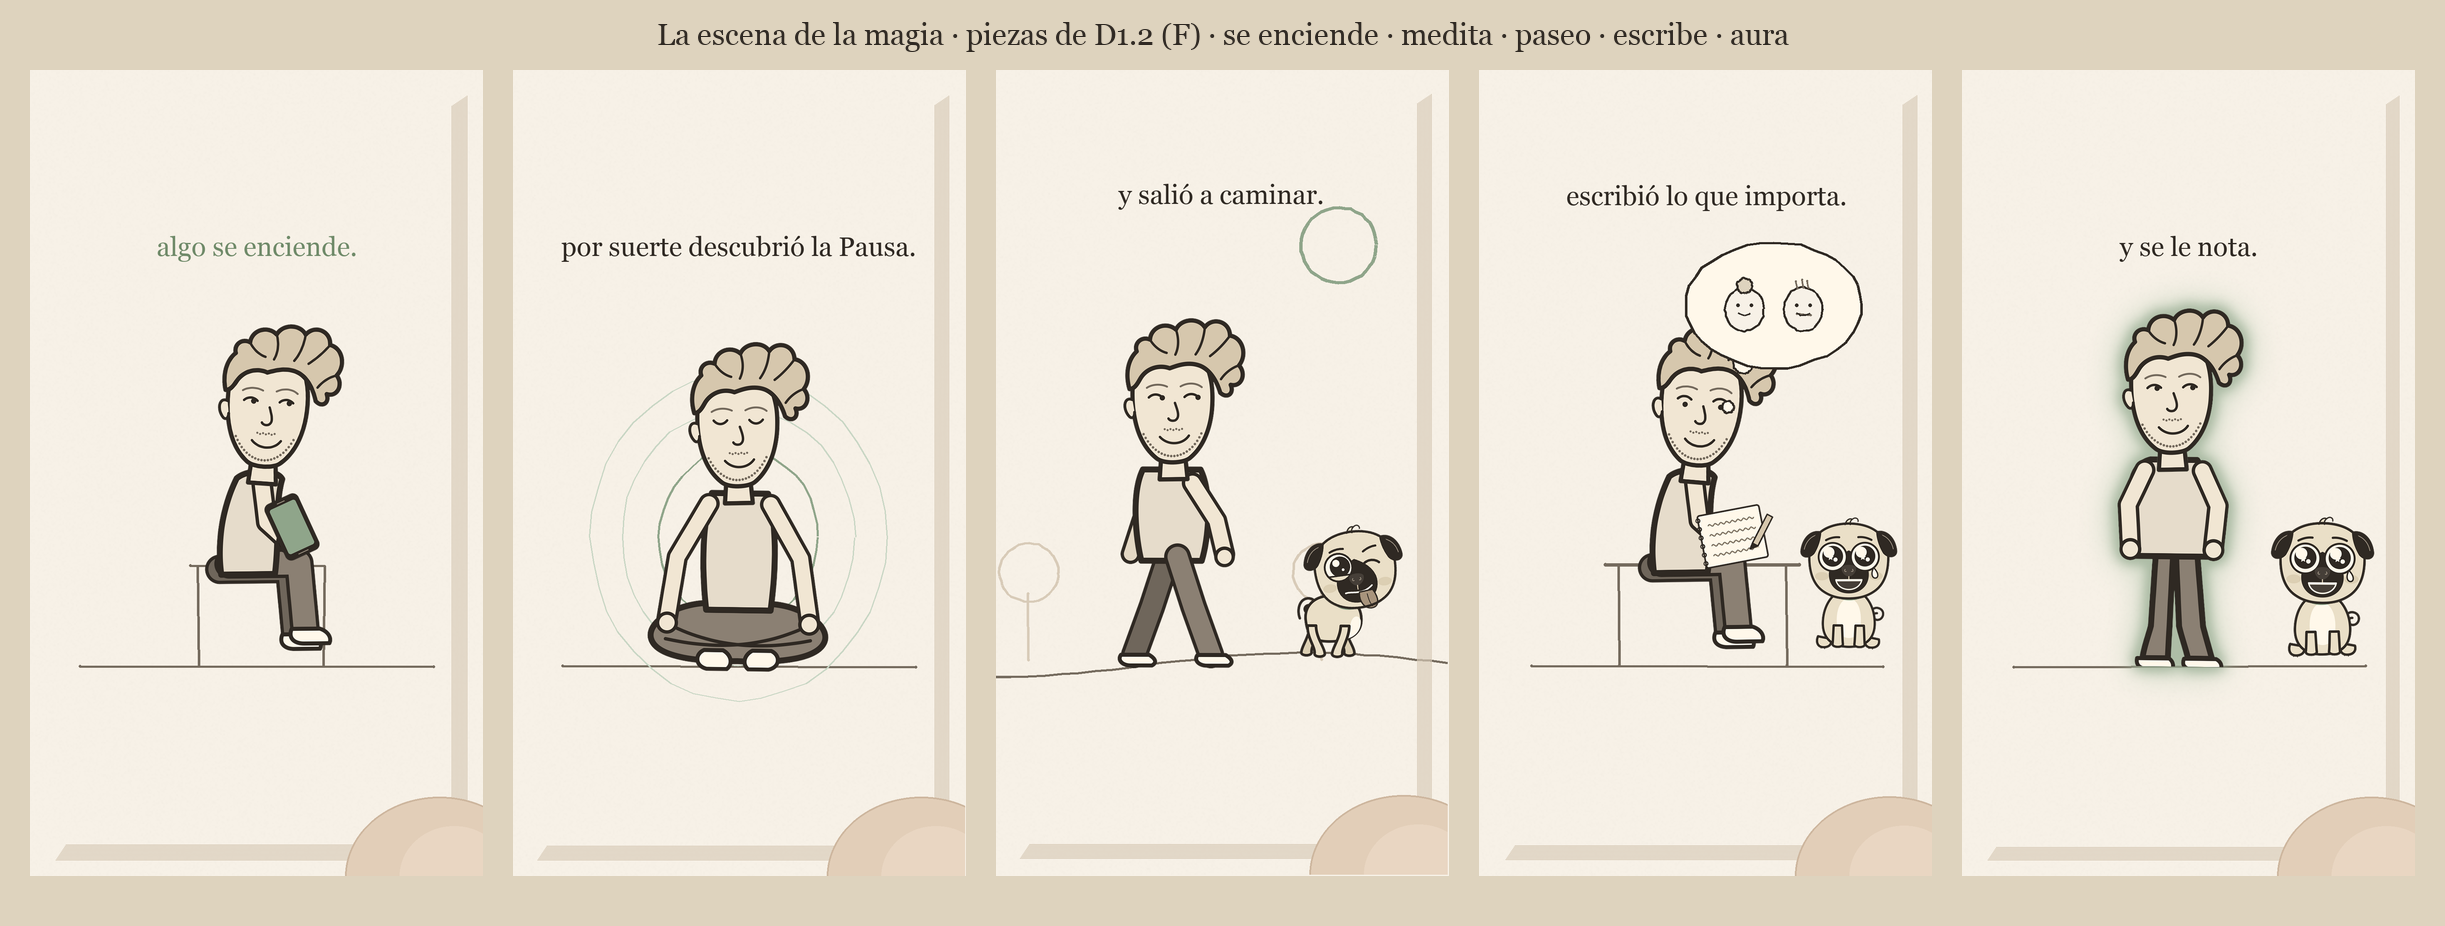
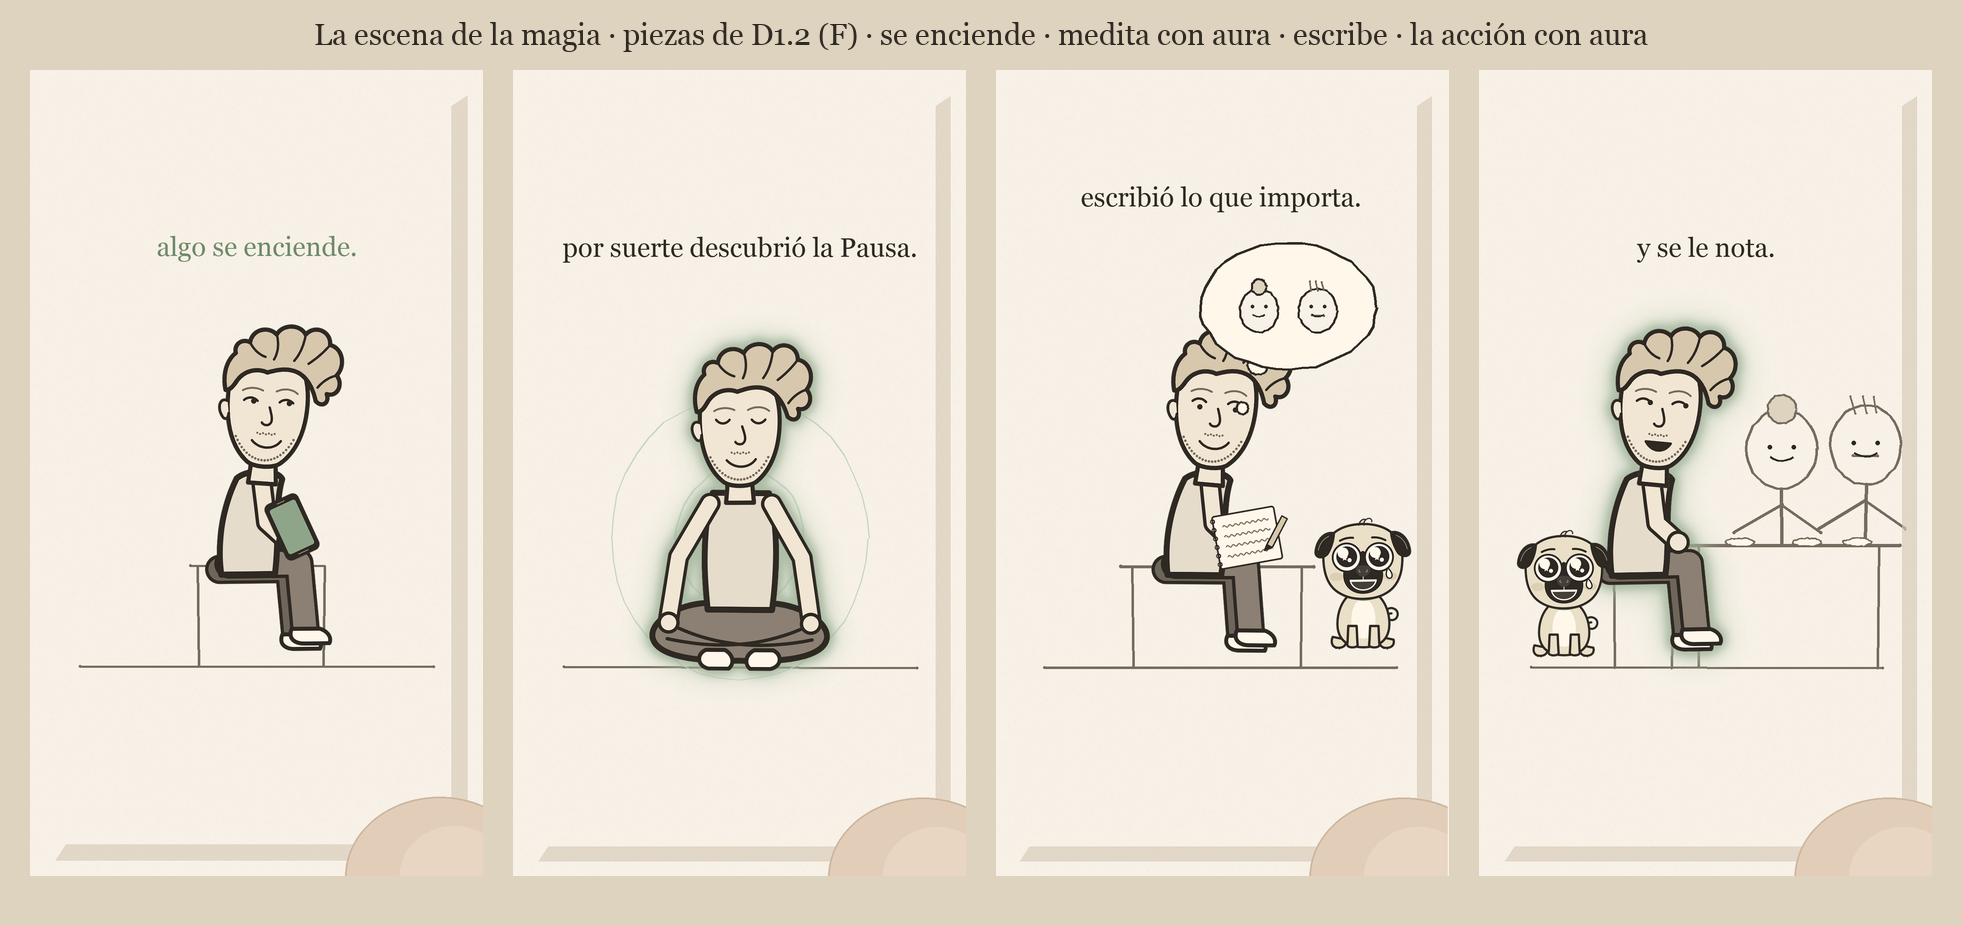
WS33 · D1.2 · F v2 por devolución de Tomás: la escena de la magia en 4 momentos (se enciende · medita CON aura · escribe = el descubrimiento · la acción con aura, ejemplo cena familiar de Vínculos con secundarios de línea a escala) · el paseo queda como alternativa del menú por volumen · hoja_magia 

Changed region(s): [[0.0622, 0.0302, 0.9949, 0.9676], [0.0, 0.9071, 0.0311, 0.9374]]

diff --git a/Flipbook/motor/magia.py b/Flipbook/motor/magia.py
@@ -3,10 +3,12 @@
     python3 Flipbook/motor/magia.py                # hoja fija de los 5 cuadros clave + mp4
     python3 Flipbook/motor/magia.py --solo-hoja    # solo la hoja
 
-Los cinco momentos, en orden: (1) el teléfono se pone verde a nivel pantalla y el ruido se
-disuelve · (2) Teo medita con los ojos cerrados y la respiración se ve · (3) el paseo erguido,
-Pipo trotando adelante · (4) escribe en el diario con la burbuja de lo que importa · (5) Teo
-erguido con el aura salvia, Pipo orgulloso a cámara.
+Los cuatro momentos (Tomás, WS33: menos acciones, que no maree): (1) el teléfono se pone
+verde a nivel pantalla y el ruido se disuelve · (2) Teo medita con los ojos cerrados y el aura
+aparece · (3) escribe en el diario con la burbuja de lo que importa (el descubrimiento de
+cada volumen) · (4) con el aura, la acción que muestra el cambio (cambia por volumen; acá la
+cena familiar de Vínculos). La pequeña acción de (2) es un menú por volumen: medita o pasea
+(`sc_paseo` queda como alternativa, fuera de la secuencia).
 
 Hoja fija → `personajes/hoja_magia.png`. Video → `pruebas/magia.mp4` (los mp4 no van al repo).
 Todo lo de acá es un GUION DE PRUEBA: los fondos y la burbuja son capa simple (línea) y en
@@ -93,21 +95,23 @@ def sc_enciende(m, i, n, rng):
     return im
 
 def sc_medita(m, i, n, rng):
-    """F2a: sentado con las piernas cruzadas, ojos cerrados; la respiración se ve en círculos."""
+    """F2: sentado con las piernas cruzadas, ojos cerrados; el aura aparece mientras respira."""
     im = R.paper(rng); d = ImageDraw.Draw(im); p = i / n
     piso(d, rng)
     x, y = 540, 1160
     px, py = ancla(m, "teo", "medita", "pecho", x, y, E)
-    for k in range(3):                              # anillos que crecen desde el pecho
-        r = 150 + 110 * k + 40 * math.sin(i * 0.45 - k * 0.9)
-        R.circle(d, px, py, r, rng, width=(5 if k == 0 else 3), color=(R.SAGE if k == 0 else R.SAGE_LIGHT), amp=3, ry=r * 1.1)
-    m.pegar(im, "teo", "medita", "cerrada_sonrisa", x, y, escala=E, rng=rng)
+    for k in range(2):                              # dos anillos que crecen desde el pecho
+        r = 170 + 120 * k + 40 * math.sin(i * 0.45 - k * 0.9)
+        R.circle(d, px, py, r, rng, width=(4 if k == 0 else 3), color=R.SAGE_LIGHT, amp=3, ry=r * 1.1)
+    pulso = 0.5 + 0.5 * math.sin(i * 0.5)
+    m.pegar(im, "teo", "medita", "cerrada_sonrisa", x, y, escala=E, rng=rng, aura=min(1.0, max(0.0, (p - 0.15) * 1.6)), pulso=pulso)
     if p > 0.2:
         texto(d, "por suerte descubrió la Pausa.")
     return im
 
 def sc_paseo(m, i, n, rng):
-    """F2b: el paseo erguido; el fondo pasa (parallax) y Pipo trota adelante."""
+    """F2 alternativa (menú por volumen: medita o pasea): el paseo erguido con parallax y Pipo
+    trotando adelante. No está en la secuencia de prueba (Tomás, WS33: menos acciones)."""
     im = R.paper(rng); d = ImageDraw.Draw(im); p = i / n
     R.circle(d, 820, 420, 90, rng, width=8, color=R.SAGE)
     R.stroke(d, [(k * 40, PISO + 30 * math.sin(k / 6 + p * 2)) for k in range(0, 28)], rng, width=6, color=R.TAUPE, amp=1.5)
@@ -139,18 +143,46 @@ def sc_escribe(m, i, n, rng):
         texto(d, "escribió lo que importa.", y=300)
     return im
 
-def sc_aura(m, i, n, rng):
-    """F4: erguido, con el aura salvia que respira; Pipo a cámara, orgulloso."""
+def familiar(d, x, y, rng, abuela, s=1.9):
+    """Un secundario de línea simple sentado a la mesa, a la escala de Teo (capa simple; en D2
+    se detalla el de cada volumen)."""
+    R.circle(d, x, y, 44 * s, rng, width=6, color=R.TAUPE, fill=R.CREAM, ry=50 * s)
+    if abuela:
+        R.circle(d, x, y - 50 * s, 18 * s, rng, width=5, color=R.TAUPE, fill=R.SAND)
+    else:
+        for k in range(3):
+            R.stroke(d, [(x + (-14 + 14 * k) * s, y - 40 * s), (x + (-18 + 14 * k) * s, y - 60 * s)], rng, width=4, color=R.TAUPE)
+        R.stroke(d, [(x - 16 * s, y + 14 * s), (x + 16 * s, y + 14 * s)], rng, width=6, color=R.TAUPE)
+    for dx in (-15 * s, 15 * s):
+        d.ellipse((x + dx - 5, y - 10, x + dx + 5, y), fill=R.UMBER)
+    d.line(R.wobble(R.arc_pts(x, y + 6 * s, 16 * s, 9 * s, 0.15 * math.pi, 0.85 * math.pi, 6), rng, 1), fill=R.UMBER, width=5, joint="curve")
+    R.stroke(d, [(x, y + 50 * s), (x, y + 120 * s)], rng, width=8, color=R.TAUPE)                  # el cuerpo
+    R.stroke(d, [(x, y + 70 * s), (x - 60 * s, y + 105 * s)], rng, width=7, color=R.TAUPE)        # los brazos a la mesa
+    R.stroke(d, [(x, y + 70 * s), (x + 50 * s, y + 105 * s)], rng, width=7, color=R.TAUPE)
+
+def sc_accion(m, i, n, rng):
+    """F4: la acción que muestra el cambio, con el aura. Cambia por volumen; acá el ejemplo de
+    Vínculos: la cena familiar, Teo presente y de frente a los abuelos (antes, en el rincón)."""
     im = R.paper(rng); d = ImageDraw.Draw(im); p = i / n
     piso(d, rng)
+    familiar(d, 720, 900, rng, abuela=True)
+    familiar(d, 920, 890, rng, abuela=False)
+    # la mesa, delante de la familia
+    R.stroke(d, [(470, 1130), (1000, 1130)], rng, width=8, color=R.TAUPE)
+    R.stroke(d, [(520, 1130), (520, PISO)], rng, width=6, color=R.TAUPE); R.stroke(d, [(950, 1130), (950, PISO)], rng, width=6, color=R.TAUPE)
+    for cx in (620, 780, 900):                                                          # platos
+        R.circle(d, cx, 1122, 34, rng, width=4, color=R.TAUPE, fill=R.IVORY, ry=10)
+    # Teo en su silla, erguido, mirando a la familia, con el aura que respira
+    R.stroke(d, [(300, 1180), (460, 1180), (460, PISO)], rng, width=6, color=R.TAUPE); R.stroke(d, [(320, 1180), (320, PISO)], rng, width=6, color=R.TAUPE)
     pulso = 0.5 + 0.5 * math.sin(i * 0.6)
-    m.pegar(im, "teo", "parado", "frente_sonrisa", 500, 1100, escala=E, rng=rng, aura=min(1.0, 0.4 + p), pulso=pulso)
-    m.pegar(im, "pipo", "sentado", "orgullo", 860, 1290, escala=0.66, rng=rng)
+    m.pegar(im, "teo", "sentado_erguido", ("costado_sonrisa" if p < 0.6 else "costado_abierta"), 400, 1100, escala=E, rng=rng, aura=1.0, pulso=pulso)
+    m.pegar(im, "pipo", "sentado", "orgullo", 200, 1300, escala=0.6, rng=rng)
     if p > 0.2:
         texto(d, "y se le nota.")
     return im
 
-ESCENAS = [(sc_enciende, 3.0), (sc_medita, 2.0), (sc_paseo, 1.6), (sc_escribe, 2.2), (sc_aura, 1.8)]
+# la secuencia de prueba: 4 momentos (Tomás, WS33: menos acciones). El paseo queda como alternativa.
+ESCENAS = [(sc_enciende, 3.0), (sc_medita, 2.6), (sc_escribe, 2.4), (sc_accion, 2.4)]
 
 # ---------------- salidas ----------------
 
@@ -164,9 +196,9 @@ def hoja_fija(m):
         cuadros.append(R.chrome(fn(m, i, n, rng), 30 + k, 60, rng))
     esc = 0.42
     w, h = int(R.W * esc), int(R.H * esc)
-    im = Image.new("RGB", (w * 5 + 6 * 30, h + 60 + 60), (222, 211, 190))
+    im = Image.new("RGB", (w * len(cuadros) + (len(cuadros) + 1) * 30, h + 60 + 60), (222, 211, 190))
     d = ImageDraw.Draw(im)
-    d.text((im.width / 2, 34), "La escena de la magia · piezas de D1.2 (F) · se enciende · medita · paseo · escribe · aura", fill=R.UMBER, font=R.font(30), anchor="mm")
+    d.text((im.width / 2, 34), "La escena de la magia · piezas de D1.2 (F) · se enciende · medita con aura · escribe · la acción con aura", fill=R.UMBER, font=R.font(30), anchor="mm")
     for k, c in enumerate(cuadros):
         im.paste(c.resize((w, h), Image.LANCZOS), (30 + k * (w + 30), 70))
     return im

diff --git a/WS/WS33_08-09-2026.md b/WS/WS33_08-09-2026.md
@@ -27,18 +27,29 @@ piezas registradas en `partes.json` y un guion de prueba que los encadena.
   uno ancho y suave) DEBAJO, después pega el personaje. Sirve para cualquier pose y no hay
   que redibujarla por gesto. Sin color nuevo.
 
-**Guion de prueba `motor/magia.py`** (`--solo-hoja` para la hoja fija): cinco momentos,
-11,6 s, 106 hojas: (1) encorvado en el rincón con el teléfono apagado y la nube de garabatos
-→ **la hoja "acerca"** (REGLAS §2: 2-3 hojas de primer plano del teléfono entre las manos
-mientras la pantalla se enciende) → vuelve al plano, se endereza y sonríe · (2) medita con
-los ojos cerrados y anillos salvia que crecen desde el pecho · (3) el paseo erguido con
-parallax de árboles y Pipo trotando adelante (`alegria_sarcastica`) · (4) en el banco escribe
-en el cuadernito, burbuja de pensamiento con los abuelos (capa simple, programada, cambia por
-volumen), Pipo `orgullo` al lado · (5) erguido con el aura que respira, Pipo a cámara.
-Textos de Pipo (≤6 palabras, neutro): "algo se enciende." · "por suerte descubrió la Pausa."
-· "y salió a caminar." · "escribió lo que importa." · "y se le nota."
-Salidas: `personajes/hoja_magia.png` (los 5 cuadros clave) y `pruebas/magia.mp4` (no va al repo).
+**Devolución de Tomás (primera versión, 5 momentos): "Excelente, me encanta", pero
+simplificar para que no maree: menos acciones.** La secuencia queda en **4 momentos**:
+(1) el teléfono se enciende, verde y sutil · (2) Teo meditando **con el aura** · (3) Teo
+escribiendo (ahí va la burbuja con "lo importante" de cada volumen = **el descubrimiento**) ·
+(4) Teo **con el aura haciendo la acción que muestra el cambio** (cambia por volumen; en
+Vínculos, disfrutando la cena con la familia). El paseo se saca de la secuencia: la pequeña
+acción de (2) es un **menú por volumen** (meditar o caminar); todas terminan en escribir +
+aura. El ciclo de caminar queda como pieza (sirve para el cartel y otros volúmenes).
 
-**Estado: construida, pendiente de validación de Tomás.** Lo que no lea se ajusta en
-`partes.py` (son números) y se regenera en minutos. Los fondos, el banquito, la burbuja y los
-anillos de respiración son capa simple y pasan al motor de guiones en A.
+**Guion de prueba `motor/magia.py`** (`--solo-hoja` para la hoja fija): 4 momentos, 11,4 s,
+104 hojas: (1) encorvado en el rincón con el teléfono apagado y la nube de garabatos → **la
+hoja "acerca"** (REGLAS §2: 2-3 hojas de primer plano del teléfono entre las manos mientras
+la pantalla se enciende) → vuelve al plano, se endereza y sonríe · (2) medita con los ojos
+cerrados, dos anillos de respiración y el aura que aparece · (3) en el banco escribe en el
+cuadernito, burbuja de pensamiento con los abuelos (capa simple, programada, cambia por
+volumen), Pipo `orgullo` al lado · (4) la cena familiar: Teo erguido con el aura, de frente
+a dos secundarios de línea simple a su escala (los abuelos; en D2 se detallan los del
+volumen), Pipo a cámara. `sc_paseo` queda en el archivo como alternativa de (2).
+Textos de Pipo (≤6 palabras, neutro): "algo se enciende." · "por suerte descubrió la Pausa."
+· "escribió lo que importa." · "y se le nota."
+Salidas: `personajes/hoja_magia.png` (los 4 cuadros clave) y `pruebas/magia.mp4` (no va al repo).
+
+**Estado: segunda versión construida, pendiente de validación de Tomás.** Lo que no lea se
+ajusta en `partes.py` (son números) y se regenera en minutos. Los fondos, el banquito, la
+mesa, la burbuja, los anillos y los secundarios de línea son capa simple y pasan al motor de
+guiones en A.
